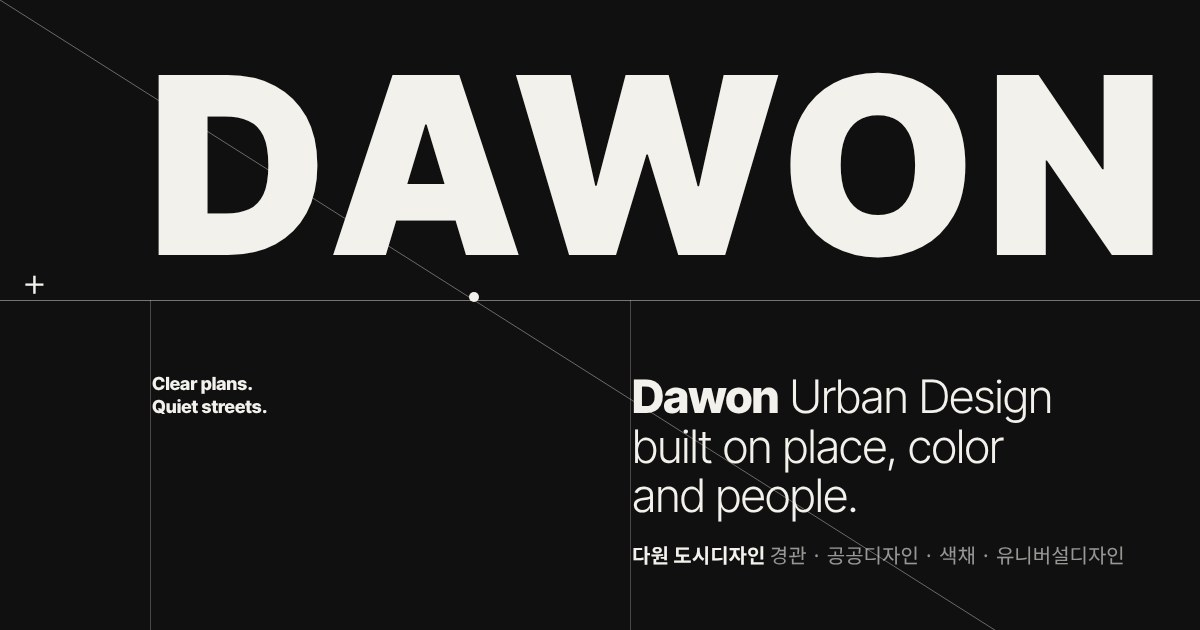
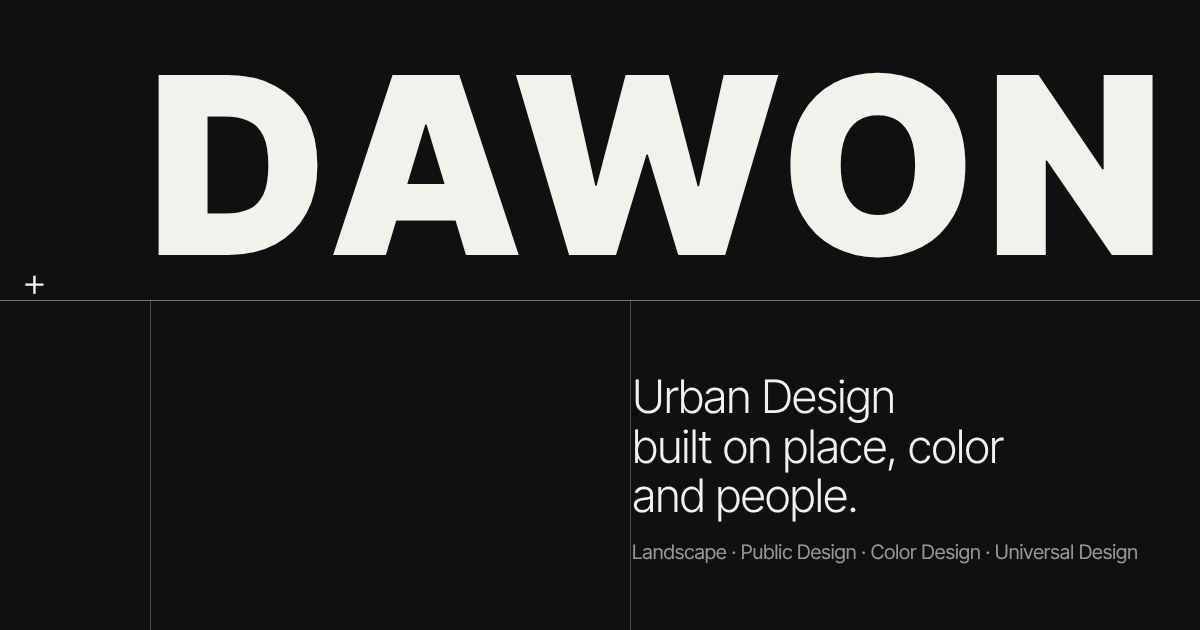
링크 공유 이미지 수정: 사선·점·Clear plans 문구·한글 이름 삭제, Urban Design을 앞으로, 분야를 영어로
Claude-Session: https://claude.ai/code/session_013p8h8YHUHC8X9DhkChiQGQ

diff --git a/site/index.html b/site/index.html
@@ -10,7 +10,7 @@
 <meta property="og:description" content="다원 도시디자인은 경관, 공공디자인, 색채디자인, 유니버설디자인을 하는 도시디자인 전문 회사입니다.">
 <meta property="og:type" content="website">
 <meta property="og:url" content="https://www.dawonud.com/">
-<meta property="og:image" content="https://www.dawonud.com/assets/img/og-image.jpg">
+<meta property="og:image" content="https://www.dawonud.com/assets/img/og-image.jpg?v=2">
 <meta property="og:image:width" content="1200">
 <meta property="og:image:height" content="630">
 <meta name="twitter:card" content="summary_large_image">

diff --git a/site/projects.html b/site/projects.html
@@ -9,7 +9,7 @@
 <meta property="og:title" content="사업실적 | 다원 도시디자인">
 <meta property="og:description" content="다원 도시디자인이 수행한 경관, 공공디자인, 색채디자인, 유니버설디자인 사업 실적입니다.">
 <meta property="og:type" content="website">
-<meta property="og:image" content="https://www.dawonud.com/assets/img/og-image.jpg">
+<meta property="og:image" content="https://www.dawonud.com/assets/img/og-image.jpg?v=2">
 <meta property="og:image:width" content="1200">
 <meta property="og:image:height" content="630">
 <meta name="twitter:card" content="summary_large_image">

diff --git a/site/business.html b/site/business.html
@@ -9,7 +9,7 @@
 <meta property="og:title" content="사업분야 | 다원 도시디자인">
 <meta property="og:description" content="경관, 공공디자인, 색채디자인, 유니버설디자인 4개 분야의 업무를 소개합니다.">
 <meta property="og:type" content="website">
-<meta property="og:image" content="https://www.dawonud.com/assets/img/og-image.jpg">
+<meta property="og:image" content="https://www.dawonud.com/assets/img/og-image.jpg?v=2">
 <meta property="og:image:width" content="1200">
 <meta property="og:image:height" content="630">
 <meta name="twitter:card" content="summary_large_image">

diff --git a/site/careers.html b/site/careers.html
@@ -9,7 +9,7 @@
 <meta property="og:title" content="채용 | 다원 도시디자인">
 <meta property="og:description" content="다원 도시디자인과 함께 도시의 풍경을 만들 사람을 찾습니다.">
 <meta property="og:type" content="website">
-<meta property="og:image" content="https://www.dawonud.com/assets/img/og-image.jpg">
+<meta property="og:image" content="https://www.dawonud.com/assets/img/og-image.jpg?v=2">
 <meta property="og:image:width" content="1200">
 <meta property="og:image:height" content="630">
 <meta name="twitter:card" content="summary_large_image">

diff --git a/site/about.html b/site/about.html
@@ -9,7 +9,7 @@
 <meta property="og:title" content="회사소개 | 다원 도시디자인">
 <meta property="og:description" content="다원 도시디자인의 회사 개요와 자문 활동을 소개합니다.">
 <meta property="og:type" content="website">
-<meta property="og:image" content="https://www.dawonud.com/assets/img/og-image.jpg">
+<meta property="og:image" content="https://www.dawonud.com/assets/img/og-image.jpg?v=2">
 <meta property="og:image:width" content="1200">
 <meta property="og:image:height" content="630">
 <meta name="twitter:card" content="summary_large_image">

diff --git a/site/news.html b/site/news.html
@@ -9,7 +9,7 @@
 <meta property="og:title" content="소식 | 다원 도시디자인">
 <meta property="og:description" content="다원 도시디자인의 공지사항과 수주·수상 소식입니다.">
 <meta property="og:type" content="website">
-<meta property="og:image" content="https://www.dawonud.com/assets/img/og-image.jpg">
+<meta property="og:image" content="https://www.dawonud.com/assets/img/og-image.jpg?v=2">
 <meta property="og:image:width" content="1200">
 <meta property="og:image:height" content="630">
 <meta name="twitter:card" content="summary_large_image">

diff --git a/site/contact.html b/site/contact.html
@@ -9,7 +9,7 @@
 <meta property="og:title" content="Contact us | 다원 도시디자인">
 <meta property="og:description" content="다원 도시디자인 문의하기와 오시는 길입니다.">
 <meta property="og:type" content="website">
-<meta property="og:image" content="https://www.dawonud.com/assets/img/og-image.jpg">
+<meta property="og:image" content="https://www.dawonud.com/assets/img/og-image.jpg?v=2">
 <meta property="og:image:width" content="1200">
 <meta property="og:image:height" content="630">
 <meta name="twitter:card" content="summary_large_image">

diff --git a/site/privacy.html b/site/privacy.html
@@ -9,7 +9,7 @@
 <meta property="og:title" content="개인정보처리방침 | 다원 도시디자인">
 <meta property="og:description" content="다원 도시디자인 개인정보처리방침">
 <meta property="og:type" content="website">
-<meta property="og:image" content="https://www.dawonud.com/assets/img/og-image.jpg">
+<meta property="og:image" content="https://www.dawonud.com/assets/img/og-image.jpg?v=2">
 <meta property="og:image:width" content="1200">
 <meta property="og:image:height" content="630">
 <meta name="twitter:card" content="summary_large_image">

diff --git a/site/thanks.html b/site/thanks.html
@@ -9,7 +9,7 @@
 <meta property="og:title" content="문의 접수 완료 | 다원 도시디자인">
 <meta property="og:description" content="문의가 접수되었습니다.">
 <meta property="og:type" content="website">
-<meta property="og:image" content="https://www.dawonud.com/assets/img/og-image.jpg">
+<meta property="og:image" content="https://www.dawonud.com/assets/img/og-image.jpg?v=2">
 <meta property="og:image:width" content="1200">
 <meta property="og:image:height" content="630">
 <meta name="twitter:card" content="summary_large_image">
